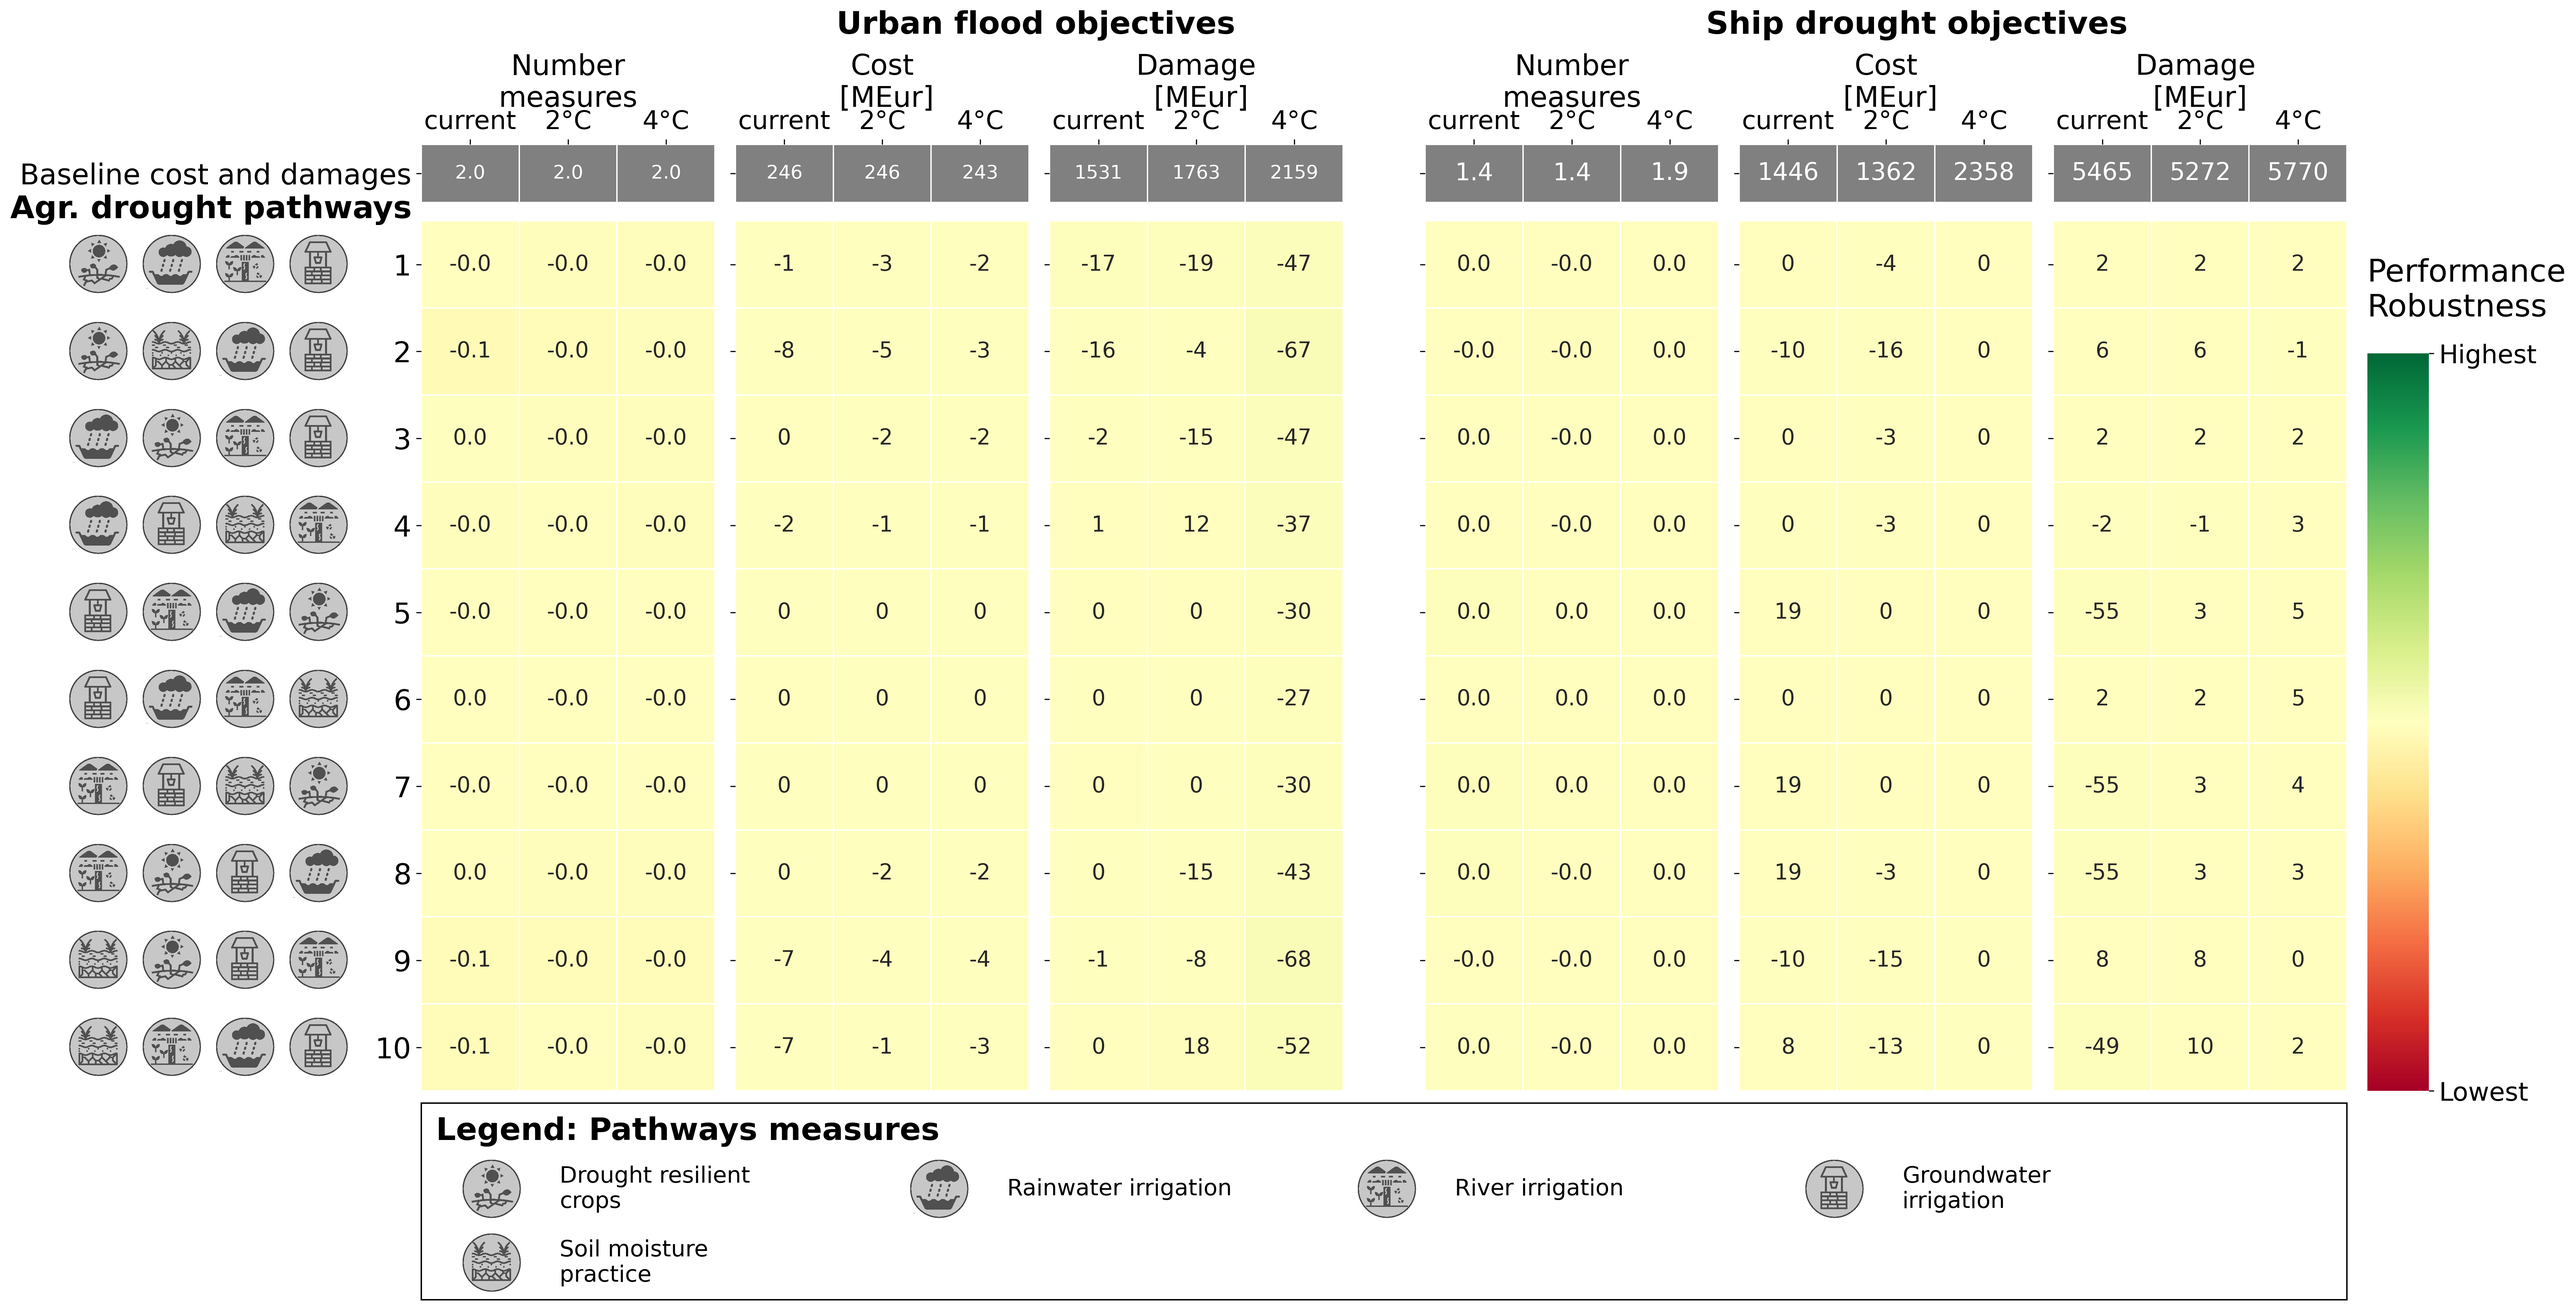
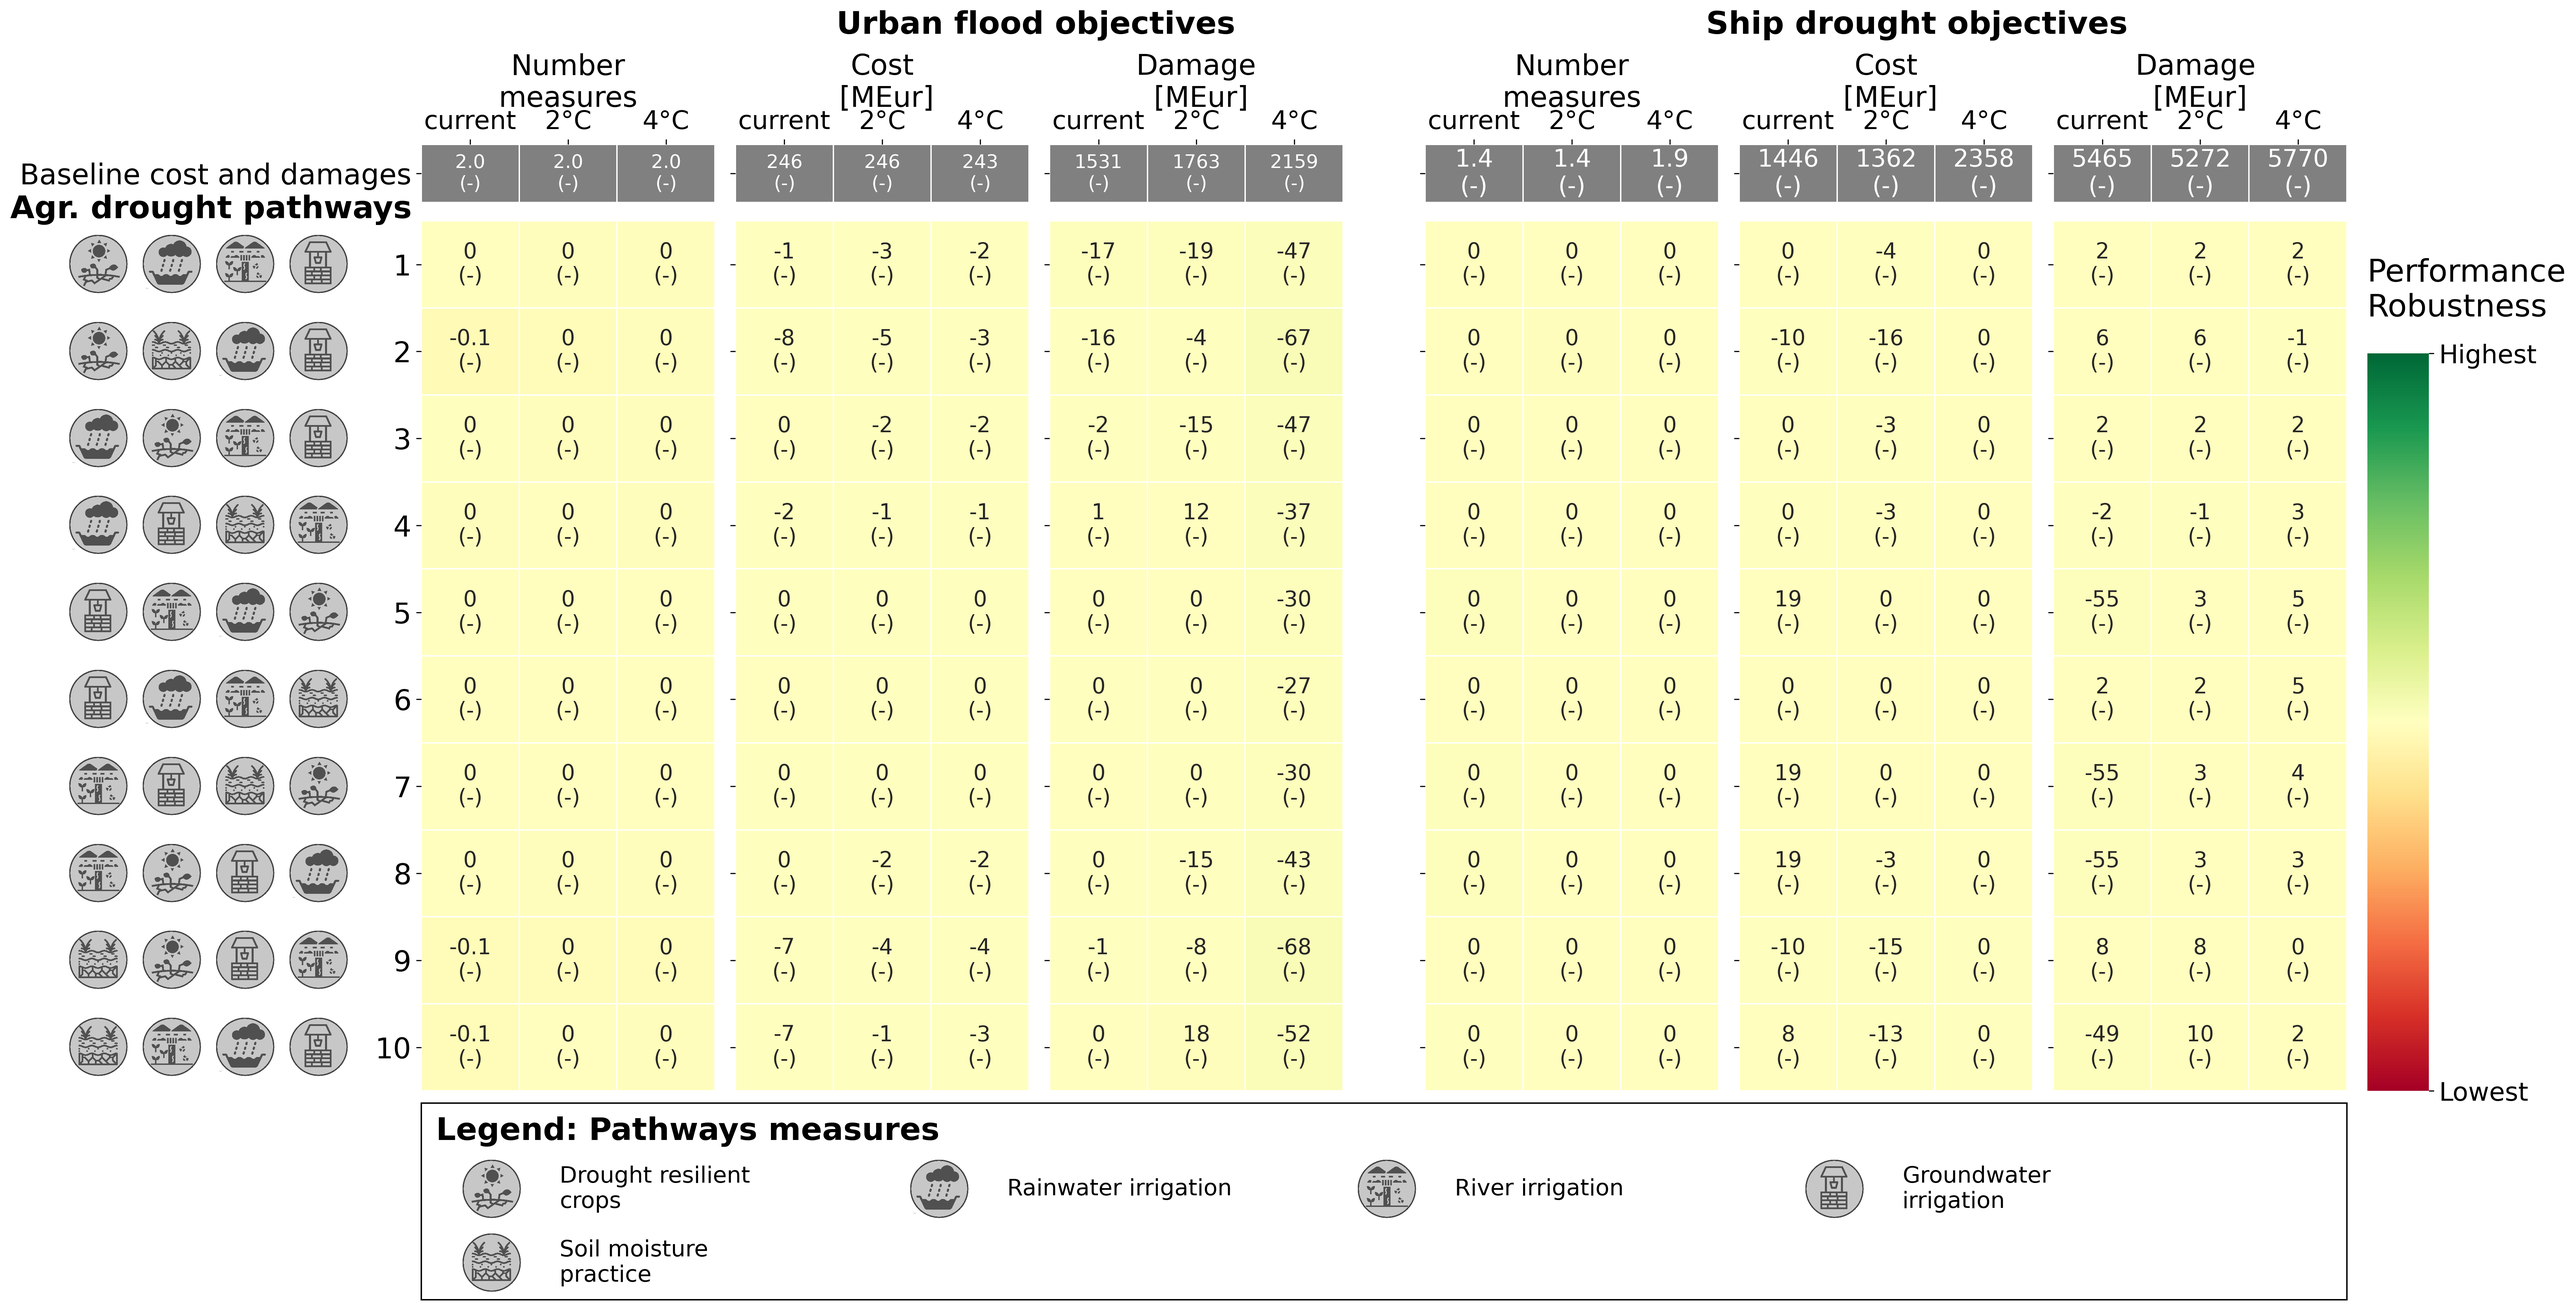
Waasmodel and additional files for output creation & change pathways sequencing changes if measure removed (keep &&)

diff --git a/viz/output_viz.py b/viz/output_viz.py
@@ -32,6 +32,10 @@ portfolio_list = {'flood_agr': ['fa_p'],
                           'multihaz_agr': ['fa_p', 'da_p'],
                           'multihaz_urb': ['fu_p'],
                           'multihaz_multisec': ['fa_p', 'da_p', 'fu_p', 'ds_p']}
+portfolio_list_inv = {'fa_p': ['', 'flood_agr', 'multihaz_agr', 'mulithaz_multisec'],
+                      'da_p': ['','drought_agr', 'multihaz_agr', 'mulithaz_multisec'],
+                      'fu_p': ['','flood_urb','multihaz_urb', 'mulithaz_multisec'],
+                      'ds_p': ['','drought_shp','drought_shp', 'mulithaz_multisec']}
 
 names = [
     "Drought resilient crops", "Rainwater irrigation", "Groundwater irrigation", "River irrigation",
@@ -445,6 +449,41 @@ class OutputPocessing():
 
                     df_out = df_test.copy()
 
+                    # Formatting 'subtracted' column based on 'output' column criteria
+                    def format_subtracted(row):
+                        rounded = round(row['subtracted'], 1)
+                        if not (row['output'].startswith('pathway') or row['output'].startswith('main')):
+                            return str(int(row['subtracted']))  # Convert to integer
+                        else:
+                            # Round to 1 decimal place unless the value is zero
+                            return str(int(row['subtracted'])) if rounded == 0 else str(rounded)
+
+                    df_out['subtracted'] = df_out.apply(format_subtracted, axis=1)
+
+                    # Save to offer old information for next plots
+                    df_out.to_csv(f'{heatmap}/heatmap_statistics_{sector}_{sh_portfolios}_stage_{self.stages[sector]}.csv')
+                    if self.stages[sector] > 1:
+                        previous_stage_df = pd.read_csv(f'{heatmap}/heatmap_statistics_{portfolio_list_inv[sh_portfolios][self.stages[sector]-1]}_{sh_portfolios}_stage_{self.stages[sector]-1}.csv')
+
+                        previous_stage_df['subtracted'] = previous_stage_df.apply(format_subtracted, axis=1)
+                        # Merging on 'output', 'cc_scenario', 'sh_portfolios' with an indicator to track matches
+                        merged_df = pd.merge(df_out, previous_stage_df, on=['output', 'cc_scenario', sh_portfolios],
+                                             how='left', suffixes=('', '_previous'), indicator=True)
+
+                        # Function to format the 'subtracted' string based on whether a match was found
+                        def format_subtracted(row):
+                            if row['_merge'] == 'both':  # There's a match
+                                return f"{row['subtracted']}\n({row['subtracted_previous']})"
+                            else:  # No match
+                                return f"{row['subtracted']}\n(-)"
+
+                        # Apply the function to create the desired 'subtracted' format
+                        merged_df['subtracted'] = merged_df.apply(format_subtracted, axis=1)
+
+                        # Drop unnecessary columns
+                        final_df = merged_df.drop(columns=['subtracted_previous', '_merge'])
+                        df_out = final_df.copy()
+
                     for key in keys_list_full:
                         if key.startswith('pathway') and sh_pair == sh_portfolios:
                             my_cmap = plt.cm.colors.ListedColormap(['grey', 'grey'])
@@ -466,31 +505,32 @@ class OutputPocessing():
                         other_stage_mean.columns.name = None
 
                         other_stage_mean = other_stage_mean.reindex(sorted(other_stage_mean.columns), axis=1)
-                        other_stage_mean = other_stage_mean.fillna(0)
+                        # other_stage_mean = other_stage_mean.fillna(0)
                         other_stage_mean = other_stage_mean.rename(index=cc_scenario_names)
 
-                        if not key.startswith('pathway') and not key.startswith('main'):
-                            other_stage_mean['subtracted'] = other_stage_mean['subtracted'].astype(int)
-                            my_fmt = "d"
-                        else:
-                            other_stage_mean['subtracted'] = other_stage_mean['subtracted'].round(1)
-                            my_fmt = ".1f"
+                        # # if self.stages[sector] > 1:
+                        # if not key.startswith('pathway') and not key.startswith('main'):
+                        #     # other_stage_mean['subtracted'] = other_stage_mean['subtracted'].astype(int)
+                        #     my_fmt = "d"
+                        # else:
+                        #     # other_stage_mean['subtracted'] = other_stage_mean['subtracted'].round(1)
+                        #     my_fmt = ".1f"
 
-                        top_plot_n = other_stage_mean['normalized'].loc[:,[0]]
+                        top_plot_n = other_stage_mean['normalized'].loc[:,[0]].astype(float)
                         top_plot_s = other_stage_mean['subtracted'].loc[:,[0]]
 
-                        bottom_plot_n = other_stage_mean['normalized'].drop(0, axis=1)
+                        bottom_plot_n = other_stage_mean['normalized'].drop(0, axis=1).astype(float)
                         bottom_plot_s = other_stage_mean['subtracted'].drop(0, axis=1)
 
                         # Convert column names to integers
                         bottom_plot_n.columns = bottom_plot_n.columns.astype(int)
                         sns.heatmap(top_plot_n.T,
-                                    annot=top_plot_s.T, fmt=my_fmt,
+                                    annot=top_plot_s.T, fmt='s',
                                     linewidth=.5, ax=top_list[ax_tick], cmap=all_white_cmap, vmin=-1, vmax=1,
                                     cbar=False, annot_kws={
                                 "size": 48 / np.sqrt(number_pathways[self.stages[sector]][sh_pair]-2)}, )
                         sns.heatmap(bottom_plot_n.astype(np.float32).T,
-                                    annot=bottom_plot_s.T, fmt=my_fmt,
+                                    annot=bottom_plot_s.T, fmt='s',
                                     linewidth=.5, ax=bottom_list[ax_tick], cmap=my_cmap, vmin=-1, vmax=1,
                                     cbar=ax_tick == 1, cbar_ax=cbar_ax if ax_tick else None, annot_kws={
                                 "size": 48 / np.sqrt(len(bottom_plot_n.astype(np.float32).T))}, )

diff --git a/waasmodel_v6/module_measure.py b/waasmodel_v6/module_measure.py
@@ -181,6 +181,11 @@ class MeasureModule:
                 #     module_transfer.pathways_list_d_a = module_transfer.pathways_list_d_a.replace(
                 #         str(inputs.measure_numbers['d_resilient_crops']), '').replace('&&', '&')
 
+                if next_measure == 'f_resilient_crops' and str(
+                        inputs.measure_numbers['d_resilient_crops']) in module_transfer.pathways_list_d_a:
+                    module_transfer.pathways_list_d_a = module_transfer.pathways_list_d_a.replace(
+                        str(inputs.measure_numbers['d_resilient_crops']), '')
+
                 self.y_lastm_f_a = year  # store year of last measure implemented
         if self.hs_pair == 'flood_urb' or self.stage > 1:
             if (module_transfer.f_u_decision_value >= inputs.f_u_tp_cond or module_transfer.DamUrb_tot >= inputs.f_u_tp_extreme_year) and year >= self.y_lastm_f_u + inputs.yrs_btw_nmeas:
@@ -208,10 +213,10 @@ class MeasureModule:
                     module_transfer=module_transfer, inputs=inputs)
                 self.y_lastm_d_a = year  # store year of last measure implemented
 
-                # if next_measure == 'f_resilient_crops' and str(
-                #         inputs.measure_numbers['d_resilient_crops']) in module_transfer.pathways_list_d_a:
-                #     module_transfer.pathways_list_d_a = module_transfer.pathways_list_d_a.replace(
-                #         str(inputs.measure_numbers['d_resilient_crops']), '').replace('&&', '&')
+                if next_measure == 'f_resilient_crops' and str(
+                        inputs.measure_numbers['d_resilient_crops']) in module_transfer.pathways_list_d_a:
+                    module_transfer.pathways_list_d_a = module_transfer.pathways_list_d_a.replace(
+                        str(inputs.measure_numbers['d_resilient_crops']), '')
 
         if self.hs_pair == 'drought_shp' or self.stage > 1:
             if (module_transfer.d_s_decision_value >= inputs.d_s_tp_cond or module_transfer.DamShp_tot >= inputs.d_s_tp_extreme_year) and year >= self.y_lastm_d_s + inputs.yrs_btw_nmeas:

diff --git a/run_outputvisualization.py b/run_outputvisualization.py
@@ -2,7 +2,7 @@ from viz.output_viz import OutputPocessing
 
 
 realization = 5000
-stages = [2]
+stages = [3]
 outfolder = 'model_outputs'  # name of folder (within current folder) created to store the outputs
 no_realizations = 1
 
@@ -10,7 +10,11 @@ sectors_list = {1: ['flood_agr', 'drought_agr', 'flood_urb', 'drought_shp'],
                 2: ['flood_agr', 'drought_agr', 'flood_urb', 'drought_shp', 'multihaz_agr', 'multihaz_urb'],
                 3: ['flood_agr', 'drought_agr', 'flood_urb', 'drought_shp', 'multihaz_agr', 'multihaz_urb',
                     'multihaz_multisec']}
-sectors_list = {1: ['flood_urb'],
+sectors_list = {1: ['flood_agr', 'drought_agr', 'flood_urb', 'drought_shp'],
+                2: ['flood_agr', 'drought_agr', 'flood_urb', 'drought_shp', 'multihaz_agr', 'multihaz_urb'],
+                3: ['flood_agr', 'drought_agr', 'flood_urb', 'drought_shp', 'multihaz_agr', 'multihaz_urb',
+                    'multihaz_multisec']}
+sectors_list = {1: ['flood_agr'],
                 2: ['multihaz_agr'],
                 3: ['multihaz_multisec']}
 

diff --git a/waasmodel_v6/Waasmodel_v6.py b/waasmodel_v6/Waasmodel_v6.py
@@ -42,8 +42,8 @@ class WaasModel:
                                                           inputs=self.inputs)
 
 
-        if timestep_index % (36 * 20) == 0:
-            pass
+        if timestep_index % (36 * 20) == 0: # all 20 years
+            # pass
             # transfer_dict = self.update_system.run_module(module_transfer=transfer_dict, timestep=timestep_index,
             #                                               inputs=self.inputs)
 
